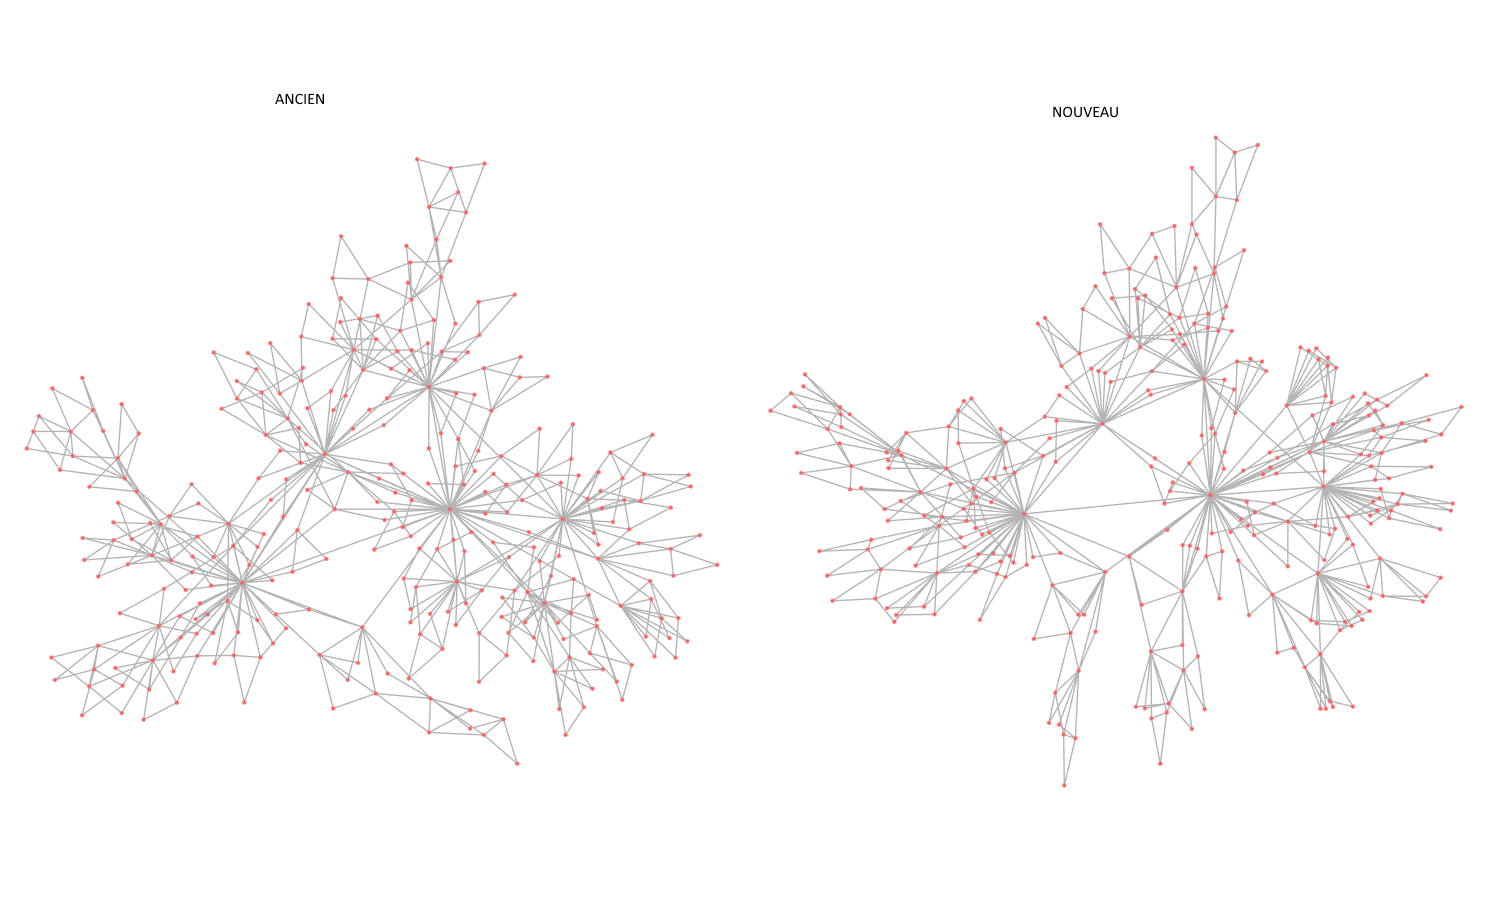
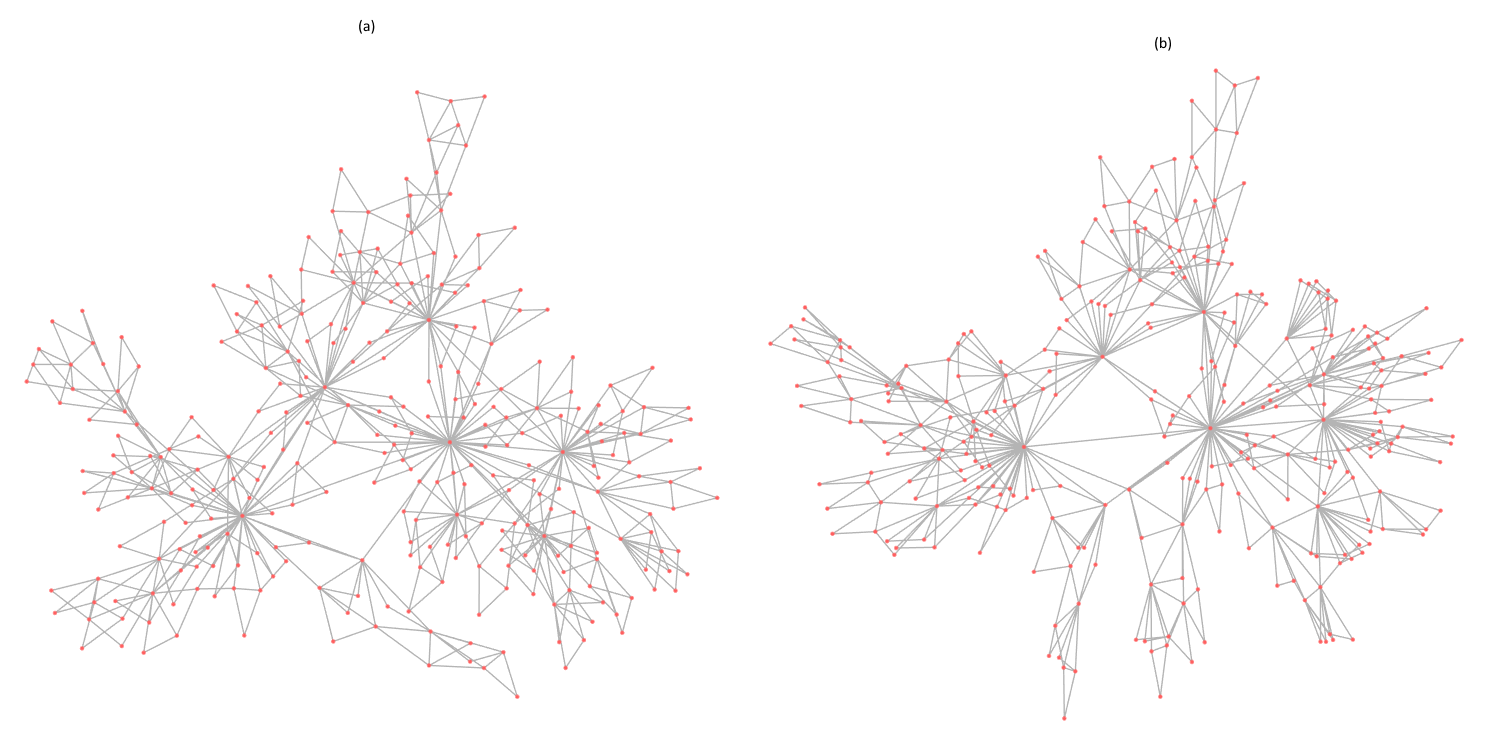
cleaned

diff --git a/src/custom_layout.cpp b/src/custom_layout.cpp
@@ -37,12 +37,6 @@ const float f2_PI_6 = 2.0f * fPI_6;
 const float f3_PI_6 = 3.0f * fPI_6;
 const float f4_PI_6 = 4.0f * fPI_6;
 
-std::chrono::duration<double> dur1;
-std::chrono::duration<double> dur2;
-std::chrono::duration<double> dur3;
-std::chrono::duration<double> dur4;
-unsigned int count = 0;
-
 PLUGIN(CustomLayout)
 
 CustomLayout::CustomLayout(const tlp::PluginContext *context) 
@@ -101,10 +95,9 @@ bool CustomLayout::run() {
 
 	while (!quit) {
 		auto start = std::chrono::high_resolution_clock::now();
-		if (it <= 4 || it % 20 == 0) 
+		if (it <= 4 || it % 20 == 0)
 			buildKdTree(true, kdTree);
 		auto end = std::chrono::high_resolution_clock::now();
-		dur1 += end - start;
 
 		refinement = m_refinement && it % m_refinementFreq == 0;
 
@@ -115,10 +108,8 @@ bool CustomLayout::run() {
 			if (!m_condition || m_canMove->getNodeValue(m_nodesCopy[i]))
 				computeReplForces(m_nodesCopy[i], kdTree, refinement);
 		}
-		std::cout << "count: " << count << std::endl;
-		count = 0;
+		// std::cout << "count: " << count << std::endl;
 		end = std::chrono::high_resolution_clock::now();
-		dur2 += end - start;
 
 		//compute attractive forces TODO: find a way to parallelize
 		start = std::chrono::high_resolution_clock::now();
@@ -139,7 +130,6 @@ bool CustomLayout::run() {
 			}
 		}
 		end = std::chrono::high_resolution_clock::now();
-		dur3 += end - start;
 
 		// update nodes position
 		start = std::chrono::high_resolution_clock::now();
@@ -163,7 +153,6 @@ bool CustomLayout::run() {
 			m_disp[n] = tlp::Coord(0);
 		}
 		end = std::chrono::high_resolution_clock::now();
-		dur4 += end - start;
 
 		if (m_stoppingCriterion && averageDisp <= m_threshold)
 			quit = true;
@@ -182,12 +171,6 @@ bool CustomLayout::run() {
 	}
 
 	deleteTree(kdTree);
-
-	std::cout << "dir 1: " << dur1.count() << std::endl;
-	std::cout << "dir 2: " << dur2.count() << std::endl;
-	std::cout << "dir 3: " << dur3.count() << std::endl;
-	std::cout << "dir 4: " << dur4.count() << std::endl;
-
 
 	// update result property
 	#pragma omp parallel for
@@ -419,17 +402,18 @@ void CustomLayout::computeReplForces(const tlp::node &n, KNode *kdTree, bool com
 	tlp::Coord dist = m_pos[n] - kdTree->center;
 	float distNorm = dist.norm();
 	if (kdTree->leftChild == nullptr && kdTree->rightChild == nullptr) {
-		for (unsigned int i = kdTree->start; i < kdTree->end; ++i) {
-			const tlp::node &v = m_nodesCopy[i];
-			if (n != v) {
-				tlp::Coord dist = m_pos[n] - m_pos[v];
-				dist *= computeReplForce(dist);
-				m_disp[n] += dist;
-				if (computeEnergy)
-					m_energy[n] += computeReplForceIntgr(dist);
+		if (distNorm <= kdTree->radius) {
+			for (unsigned int i = kdTree->start; i < kdTree->end; ++i) {
+				const tlp::node &v = m_nodesCopy[i];
+				if (n != v) {
+					tlp::Coord dist = m_pos[n] - m_pos[v];
+					dist *= computeReplForce(dist);
+					m_disp[n] += dist;
+					if (computeEnergy)
+						m_energy[n] += computeReplForceIntgr(dist);
+				}
 			}
 		}
-		++count;
 		return;
 	}
 	if (distNorm > kdTree->radius) {	
@@ -447,7 +431,6 @@ void CustomLayout::computeReplForces(const tlp::node &n, KNode *kdTree, bool com
 		}
 		if (computeEnergy) 
 			m_energy[n] += computeReplForceIntgr(dist);
-		++count;
 	}	else { 
 		computeReplForces(n, kdTree->leftChild, computeEnergy);
 		computeReplForces(n, kdTree->rightChild, computeEnergy);

diff --git a/scripts/morph.py b/scripts/morph.py
@@ -10,7 +10,7 @@ def main(graph):
     previous_pos = tlp.LayoutProperty(graph)
     color = graph.getColorProperty("viewColor")
     i = 0
-    steps = 5000
+    steps = 1000
     for g in graph.getSubGraphs():
         print(g)
         sg_pos = g.getLocalLayoutProperty("viewLayout")
@@ -51,7 +51,8 @@ def main(graph):
                         color[e] = tlp.Color(c.getR(), c.getG(), c.getB(), int(alpha))
                 updateVisualization(True)
         updateVisualization(True) 
-        pauseScript()             
+        time.sleep(0.5)
+        #pauseScript()             
         previous_pos.copy(sg_pos)
         i += 1
     
